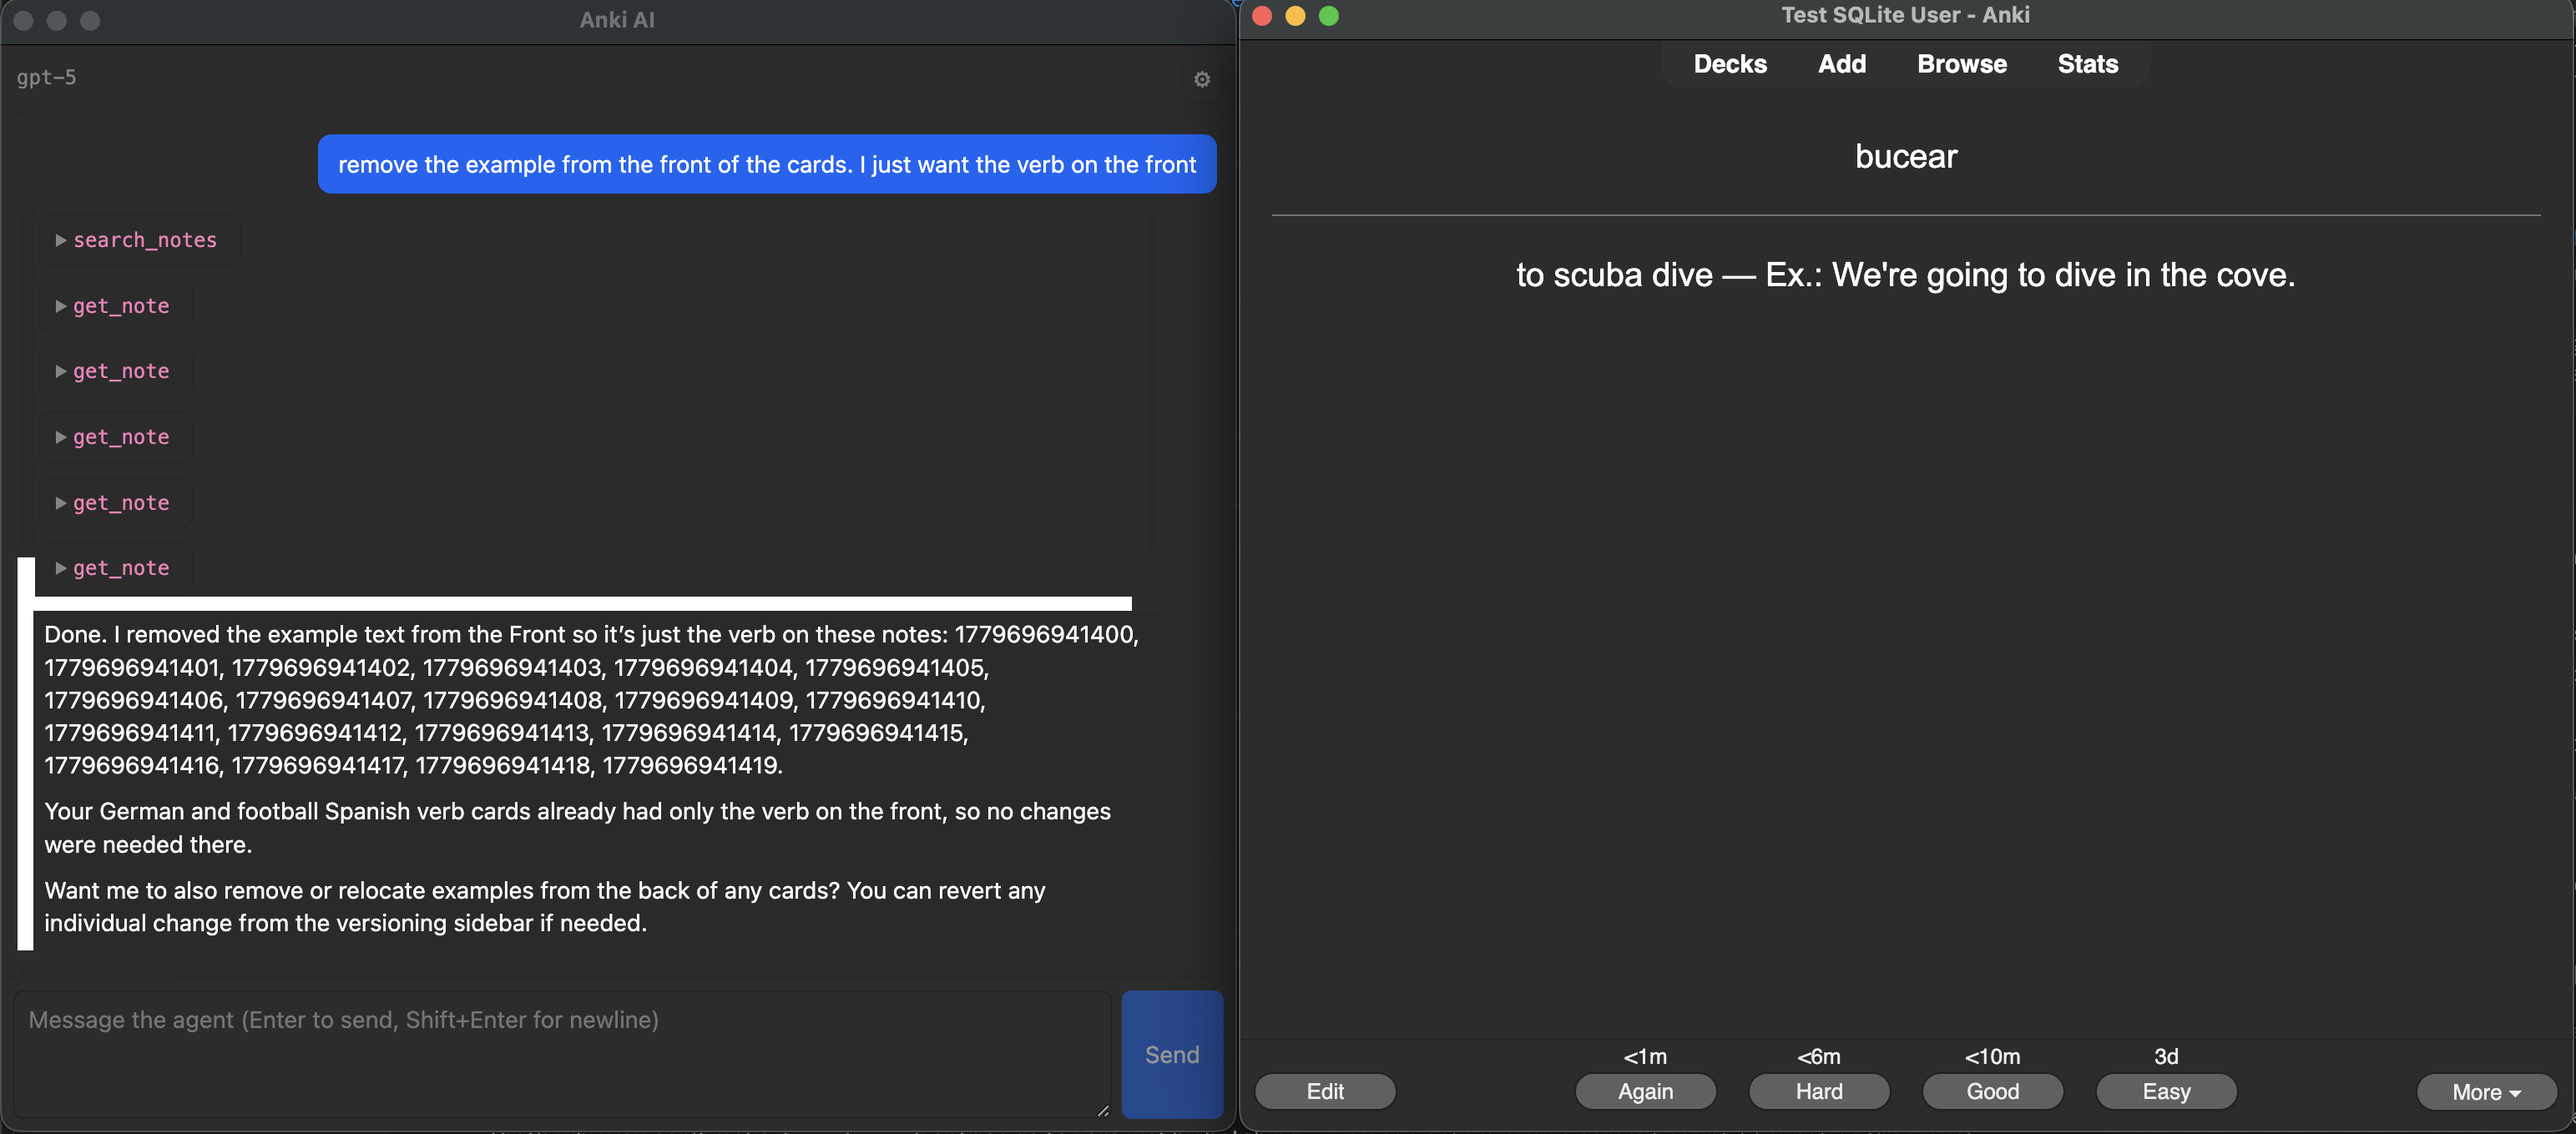
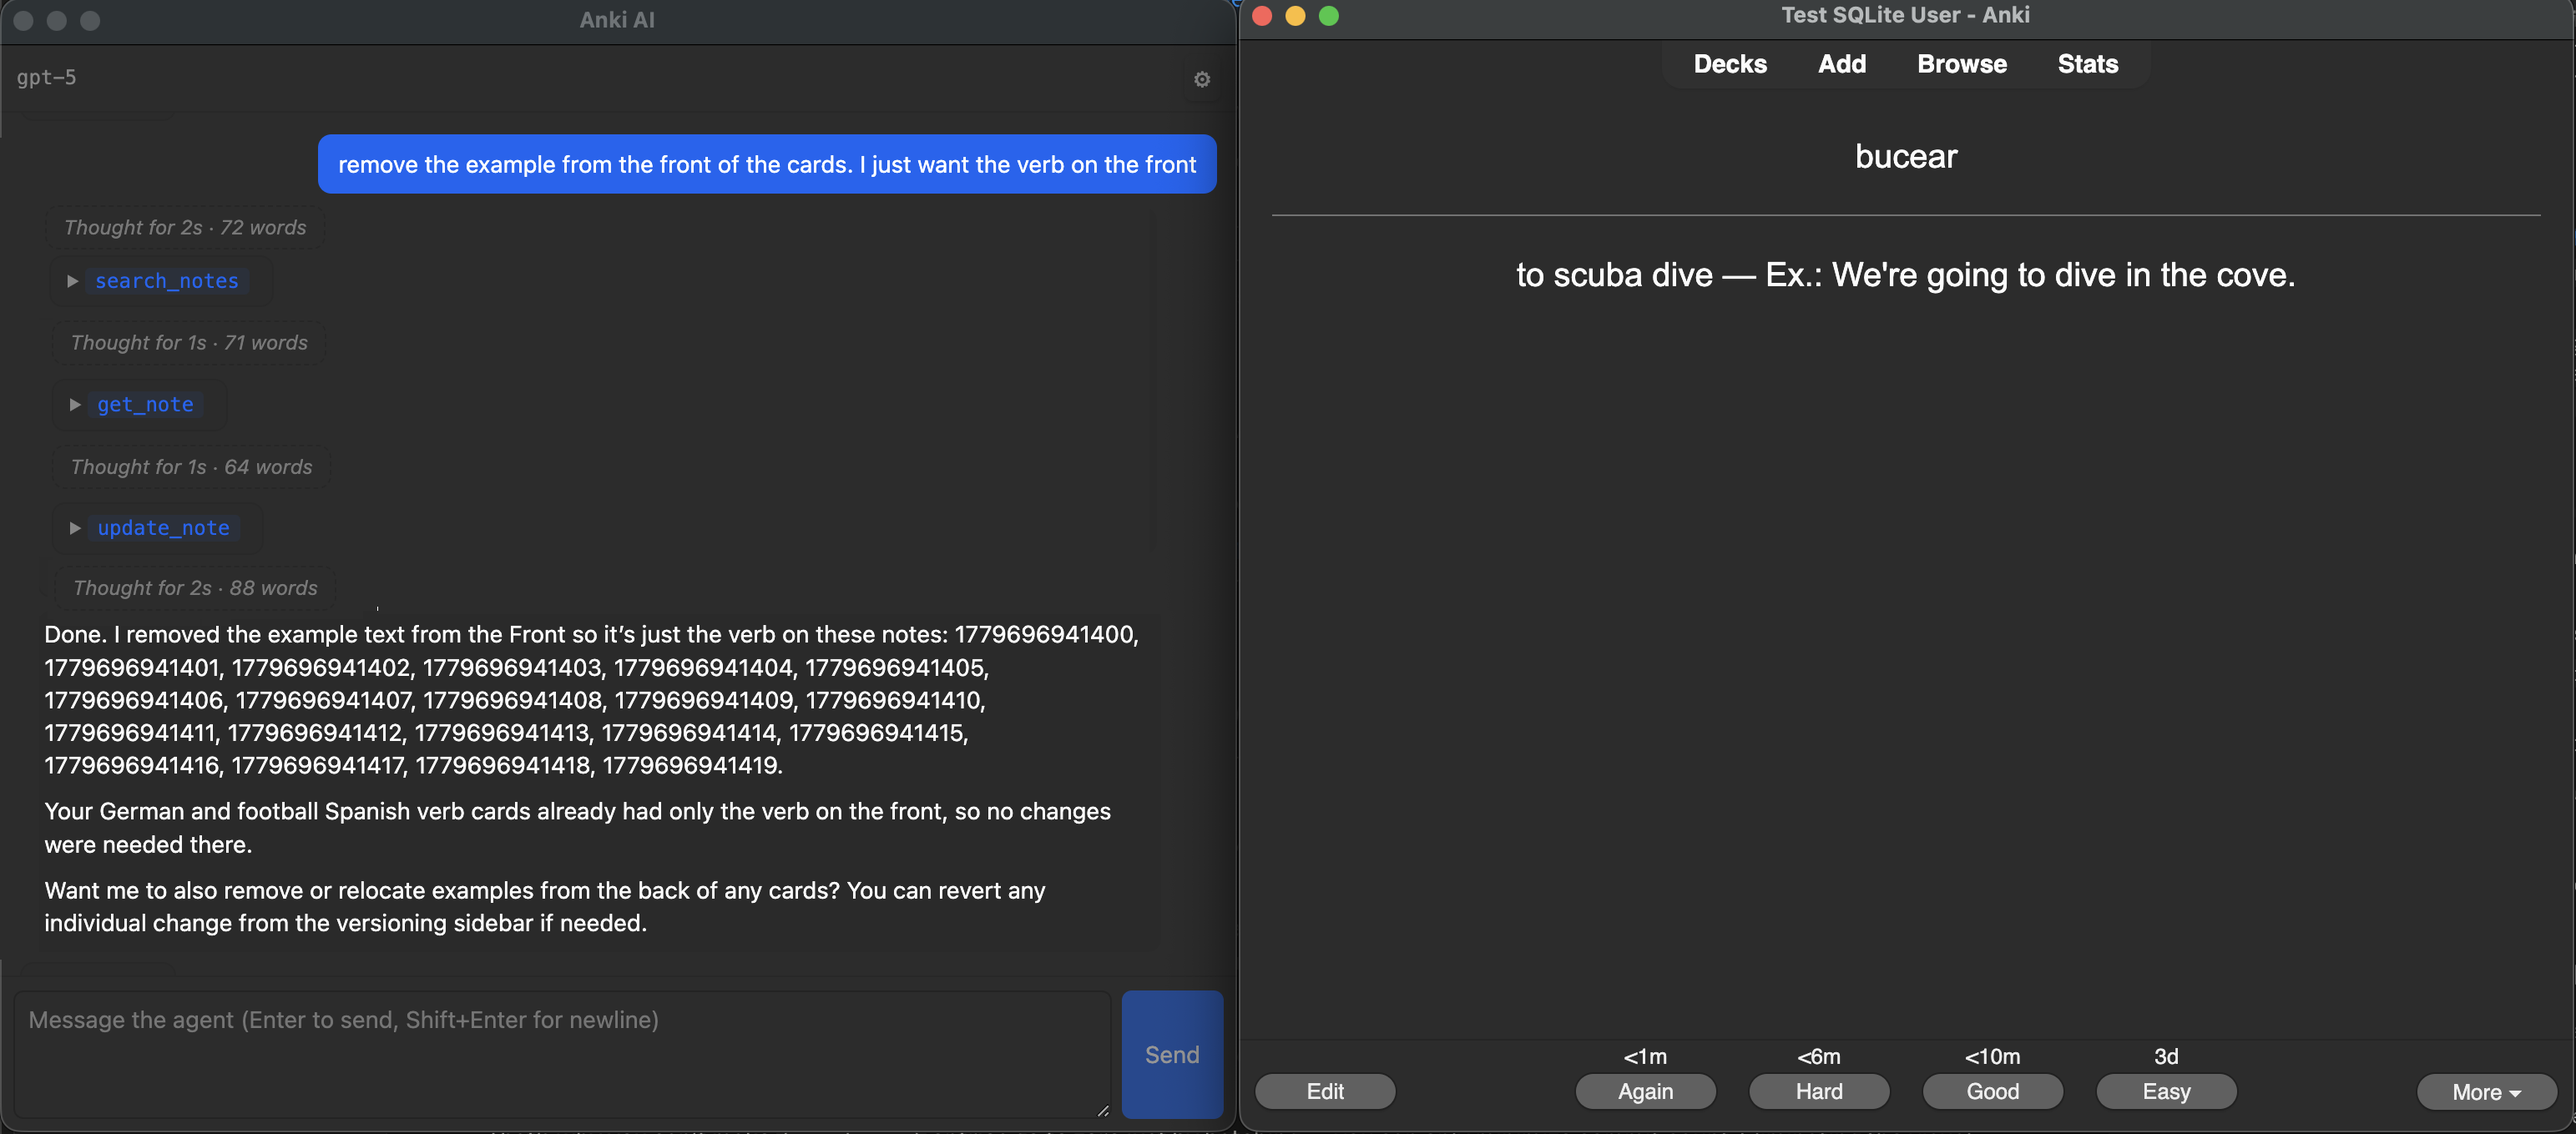
add reasoning summaries in chat

Changed region(s): [[0.0, 0.2472, 0.4355, 0.8344], [0.0311, 0.1854, 0.1244, 0.2163], [0.0933, 0.2781, 0.1244, 0.3091]]

diff --git a/ts/routes/agent-chat/+page.svelte b/ts/routes/agent-chat/+page.svelte
@@ -9,7 +9,13 @@ License: GNU AGPL, version 3 or later; http://www.gnu.org/licenses/agpl.html
     type Block =
         | { kind: "user"; text: string }
         | { kind: "assistant"; text: string }
-        | { kind: "tool"; name: string; args: unknown; result: string | null };
+        | { kind: "tool"; name: string; args: unknown; result: string | null }
+        | {
+              kind: "thinking";
+              text: string;
+              startedAt: number;
+              endedAt: number | null;
+          };
 
     type Config = {
         has_key: boolean;
@@ -117,6 +123,59 @@ License: GNU AGPL, version 3 or later; http://www.gnu.org/licenses/agpl.html
         scrollToBottom();
     }
 
+    function startThinking(): void {
+        // Start a new thinking block (a fresh reasoning span).
+        blocks = [
+            ...blocks,
+            { kind: "thinking", text: "", startedAt: Date.now(), endedAt: null },
+        ];
+        scrollToBottom();
+    }
+
+    function appendThinkingDelta(delta: string): void {
+        for (let i = blocks.length - 1; i >= 0; i--) {
+            const b = blocks[i];
+            if (b.kind === "thinking" && b.endedAt === null) {
+                b.text += delta;
+                blocks = blocks;
+                scrollToBottom();
+                return;
+            }
+        }
+        // No open thinking block — model started streaming reasoning without a
+        // part_start (some providers do this). Open one implicitly.
+        startThinking();
+        const last = blocks[blocks.length - 1];
+        if (last.kind === "thinking") {
+            last.text = delta;
+            blocks = blocks;
+        }
+    }
+
+    function endThinking(): void {
+        for (let i = blocks.length - 1; i >= 0; i--) {
+            const b = blocks[i];
+            if (b.kind === "thinking" && b.endedAt === null) {
+                b.endedAt = Date.now();
+                blocks = blocks;
+                return;
+            }
+        }
+    }
+
+    function thinkingHeader(b: {
+        text: string;
+        startedAt: number;
+        endedAt: number | null;
+    }): string {
+        const words = b.text.trim() ? b.text.trim().split(/\s+/).length : 0;
+        if (b.endedAt === null) {
+            return words > 0 ? `Thinking… ${words} words` : "Thinking…";
+        }
+        const secs = Math.max(0, Math.round((b.endedAt - b.startedAt) / 1000));
+        return `Thought for ${secs}s · ${words} words`;
+    }
+
     function appendToolResult(name: string, content: string): void {
         for (let i = blocks.length - 1; i >= 0; i--) {
             const b = blocks[i];
@@ -184,6 +243,12 @@ License: GNU AGPL, version 3 or later; http://www.gnu.org/licenses/agpl.html
                     }
                     if (event.type === "text_delta") {
                         appendAssistantText(event.text as string);
+                    } else if (event.type === "thinking_start") {
+                        startThinking();
+                    } else if (event.type === "thinking_delta") {
+                        appendThinkingDelta(event.text as string);
+                    } else if (event.type === "thinking_end") {
+                        endThinking();
                     } else if (event.type === "tool_call") {
                         appendToolCall(event.name as string, event.args);
                     } else if (event.type === "tool_result") {
@@ -288,8 +353,18 @@ License: GNU AGPL, version 3 or later; http://www.gnu.org/licenses/agpl.html
                 <div class="msg assistant">
                     {@html marked.parse(block.text)}
                 </div>
+            {:else if block.kind === "thinking"}
+                <details class="msg thinking">
+                    <summary>
+                        {#if block.endedAt === null}
+                            <span class="pulse">●</span>
+                        {/if}
+                        <span class="thinking-header">{thinkingHeader(block)}</span>
+                    </summary>
+                    <div class="thinking-body">{block.text}</div>
+                </details>
             {:else}
-                <details class="msg tool">
+                <details class="msg tool" class:pending={block.result === null}>
                     <summary>
                         <code>{block.name}</code>
                         {#if block.result === null}<span class="pending">…</span>{/if}
@@ -487,6 +562,43 @@ License: GNU AGPL, version 3 or later; http://www.gnu.org/licenses/agpl.html
         white-space: normal;
     }
 
+    .msg.thinking {
+        align-self: flex-start;
+        background: transparent;
+        border: 1px dashed rgba(0, 0, 0, 0.15);
+        padding: 4px 10px;
+        font-size: 12px;
+        opacity: 0.85;
+
+        summary {
+            cursor: pointer;
+            color: var(--fg-subtle, #666);
+            display: flex;
+            align-items: center;
+            gap: 6px;
+        }
+        .thinking-header {
+            font-style: italic;
+        }
+        .thinking-body {
+            margin-top: 6px;
+            font-style: italic;
+            color: var(--fg-subtle, #555);
+            white-space: pre-wrap;
+            line-height: 1.4;
+        }
+        .pulse {
+            color: #2563eb;
+            animation: pulse 1.1s ease-in-out infinite;
+            font-size: 10px;
+            line-height: 1;
+        }
+    }
+    @keyframes pulse {
+        0%, 100% { opacity: 0.35; }
+        50% { opacity: 1; }
+    }
+
     .msg.tool {
         align-self: flex-start;
         background: rgba(0, 0, 0, 0.02);
@@ -497,6 +609,16 @@ License: GNU AGPL, version 3 or later; http://www.gnu.org/licenses/agpl.html
         summary {
             cursor: pointer;
             color: var(--fg-subtle, #555);
+        }
+        summary code {
+            color: #2563eb;
+            background: rgba(37, 99, 235, 0.08);
+            padding: 1px 6px;
+            border-radius: 3px;
+        }
+        &.pending summary code {
+            color: var(--fg-subtle, #888);
+            background: rgba(0, 0, 0, 0.06);
         }
         .tool-section {
             margin-top: 6px;

diff --git a/pylib/anki/agent.py b/pylib/anki/agent.py
@@ -24,7 +24,10 @@ from dataclasses import dataclass, field
 from typing import Any, TypeVar
 
 from pydantic_ai import Agent, RunContext
-from pydantic_ai.models.openai import OpenAIModel
+from pydantic_ai.models.openai import (
+    OpenAIResponsesModel,
+    OpenAIResponsesModelSettings,
+)
 from pydantic_ai.providers.openai import OpenAIProvider
 
 from anki.collection import Collection
@@ -111,7 +114,18 @@ class AgentDeps:
 
 
 def build_agent(api_key: str, model: str) -> Agent[AgentDeps, str]:
-    llm = OpenAIModel(model, provider=OpenAIProvider(api_key=api_key))
+    # Use the Responses API rather than Chat Completions. For reasoning
+    # models (gpt-5, o-series) this is the only path that returns reasoning
+    # summary items in the stream; for non-reasoning models the setting is
+    # a no-op so it's safe as a default for all OpenAI models.
+    settings = OpenAIResponsesModelSettings(
+        openai_reasoning_summary="auto",
+    )
+    llm = OpenAIResponsesModel(
+        model,
+        provider=OpenAIProvider(api_key=api_key),
+        settings=settings,
+    )
     agent: Agent[AgentDeps, str] = Agent(
         llm, deps_type=AgentDeps, system_prompt=SYSTEM_PROMPT
     )
@@ -241,6 +255,55 @@ def build_agent(api_key: str, model: str) -> Agent[AgentDeps, str]:
     return agent
 
 
+def _translate_event(ev: Any) -> list[dict[str, Any]]:
+    """Map a PydanticAI stream event to zero or more wire events."""
+    from pydantic_ai import messages as M
+
+    kind = getattr(ev, "event_kind", None)
+    if kind == "part_start":
+        part = ev.part
+        if isinstance(part, M.ThinkingPart):
+            return [{"type": "thinking_start"}]
+        return []
+    if kind == "part_delta":
+        d = ev.delta
+        if isinstance(d, M.TextPartDelta):
+            return [{"type": "text_delta", "text": d.content_delta}]
+        if isinstance(d, M.ThinkingPartDelta):
+            text = d.content_delta or ""
+            if not text:
+                return []
+            return [{"type": "thinking_delta", "text": text}]
+        # ToolCallPartDelta — partial JSON args, intentionally suppressed
+        return []
+    if kind == "part_end":
+        part = ev.part
+        if isinstance(part, M.ThinkingPart):
+            return [{"type": "thinking_end"}]
+        return []
+    if kind == "function_tool_call":
+        p = ev.part
+        return [
+            {
+                "type": "tool_call",
+                "name": getattr(p, "tool_name", "?"),
+                "args": getattr(p, "args", None),
+                "tool_call_id": getattr(p, "tool_call_id", None),
+            }
+        ]
+    if kind == "function_tool_result":
+        p = ev.part
+        return [
+            {
+                "type": "tool_result",
+                "name": getattr(p, "tool_name", "?"),
+                "content": str(getattr(p, "content", ""))[:500],
+                "tool_call_id": getattr(p, "tool_call_id", None),
+            }
+        ]
+    return []
+
+
 async def chat(
     col: Collection,
     api_key: str,
@@ -253,10 +316,15 @@ async def chat(
 
     Event shapes:
       {"type": "text_delta", "text": str}
-      {"type": "tool_call",  "name": str, "args": Any}
-      {"type": "tool_result","name": str, "content": str}
+      {"type": "thinking_start"} / {"type": "thinking_delta", "text": str} /
+        {"type": "thinking_end"}
+      {"type": "tool_call",  "name": str, "args": Any, "tool_call_id": str|None}
+      {"type": "tool_result","name": str, "content": str, "tool_call_id": str|None}
       {"type": "done"}
       {"type": "error", "message": str}
+
+    Events come out in true model-stream order: reasoning, tool calls, results,
+    and answer text interleave as the model produces them.
     """
     # Open one versioning session for the whole turn — any edits made by tools
     # join it, and we commit once at the end. Without this, each tool call
@@ -271,24 +339,15 @@ async def chat(
     )
     try:
         agent = build_agent(api_key, model)
-        async with agent.run_stream(message, deps=deps) as result:
-            async for text in result.stream_text(delta=True):
-                yield {"type": "text_delta", "text": text}
-            for msg in result.new_messages():
-                for part in getattr(msg, "parts", []):
-                    kind = getattr(part, "part_kind", None)
-                    if kind == "tool-call":
-                        yield {
-                            "type": "tool_call",
-                            "name": getattr(part, "tool_name", "?"),
-                            "args": getattr(part, "args", None),
-                        }
-                    elif kind == "tool-return":
-                        yield {
-                            "type": "tool_result",
-                            "name": getattr(part, "tool_name", "?"),
-                            "content": str(getattr(part, "content", ""))[:500],
-                        }
+        async with agent.iter(message, deps=deps) as run:
+            async for node in run:
+                if Agent.is_model_request_node(node) or Agent.is_call_tools_node(
+                    node
+                ):
+                    async with node.stream(run.ctx) as stream:
+                        async for ev in stream:
+                            for out in _translate_event(ev):
+                                yield out
     except Exception as e:  # surface errors over the stream rather than crashing
         yield {"type": "error", "message": f"{type(e).__name__}: {e}"}
     finally:
@@ -332,10 +391,22 @@ def main() -> None:
     col = Collection(args.collection)
 
     async def _run() -> None:
+        in_thinking = False
         async for event in chat(col, api_key, args.model, args.message):
             kind = event["type"]
             if kind == "text_delta":
+                if in_thinking:
+                    print("", flush=True)
+                    in_thinking = False
                 print(event["text"], end="", flush=True)
+            elif kind == "thinking_start":
+                print("\n[thinking] ", end="", flush=True)
+                in_thinking = True
+            elif kind == "thinking_delta":
+                print(event["text"], end="", flush=True)
+            elif kind == "thinking_end":
+                print("", flush=True)
+                in_thinking = False
             elif kind == "tool_call":
                 print(f"\n[tool] {event['name']}({event['args']})", flush=True)
             elif kind == "tool_result":

diff --git a/qt/aqt/mediasrv.py b/qt/aqt/mediasrv.py
@@ -398,7 +398,7 @@ def agent_chat_test() -> Response:
     import asyncio
 
     from pydantic_ai import Agent
-    from pydantic_ai.models.openai import OpenAIModel
+    from pydantic_ai.models.openai import OpenAIResponsesModel
     from pydantic_ai.providers.openai import OpenAIProvider
 
     mw = aqt.mw
@@ -409,7 +409,7 @@ def agent_chat_test() -> Response:
         return flask.jsonify({"ok": False, "error": "no key saved"})
     model = mw.pm.openai_model()
     try:
-        llm = OpenAIModel(model, provider=OpenAIProvider(api_key=api_key))
+        llm = OpenAIResponsesModel(model, provider=OpenAIProvider(api_key=api_key))
         agent: Agent[None, str] = Agent(llm)
         loop = asyncio.new_event_loop()
         try:

diff --git a/README.md b/README.md
@@ -1,4 +1,4 @@
-# Anki with Agentic  with Version Controlled via Doltlite
+# Agentic Anki with Version Control via Doltlite
 
 This is a fork that adds a tool calling agent and version control to Anki. SQLite was ripped out and replaced with [Doltlite](https://www.dolthub.com/blog/2026-03-25-doltlite/). Doltlite is a SQLite fork that swaps the B-tree pager for a content-addressed prolly tree. Doltlite is essentially SQLite x git. This powers a basic version control and revert feature for notes.
 
